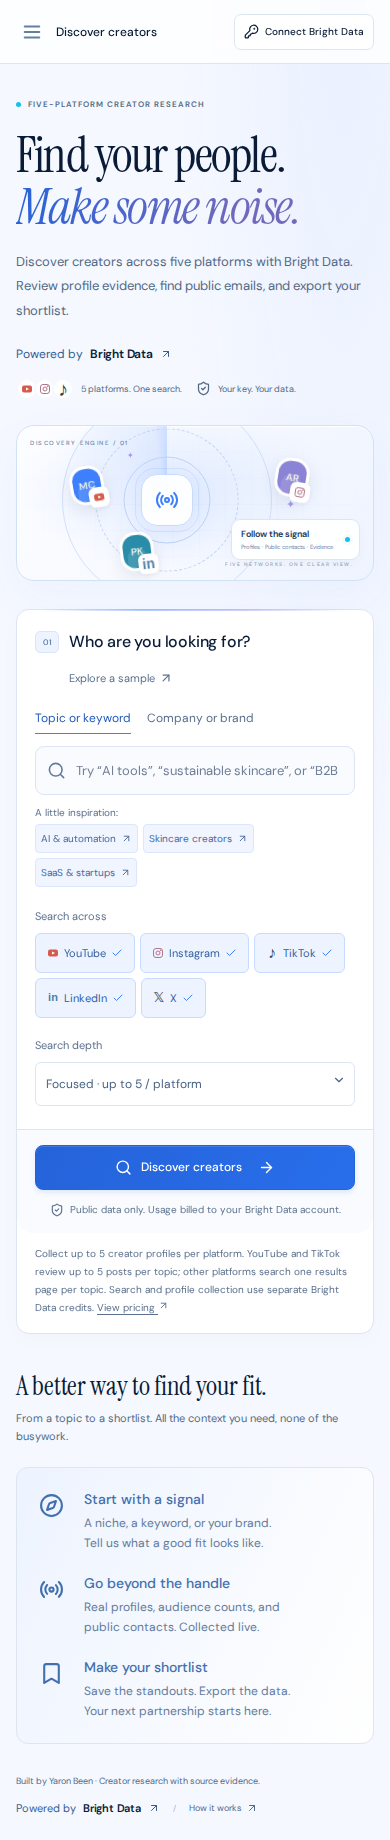
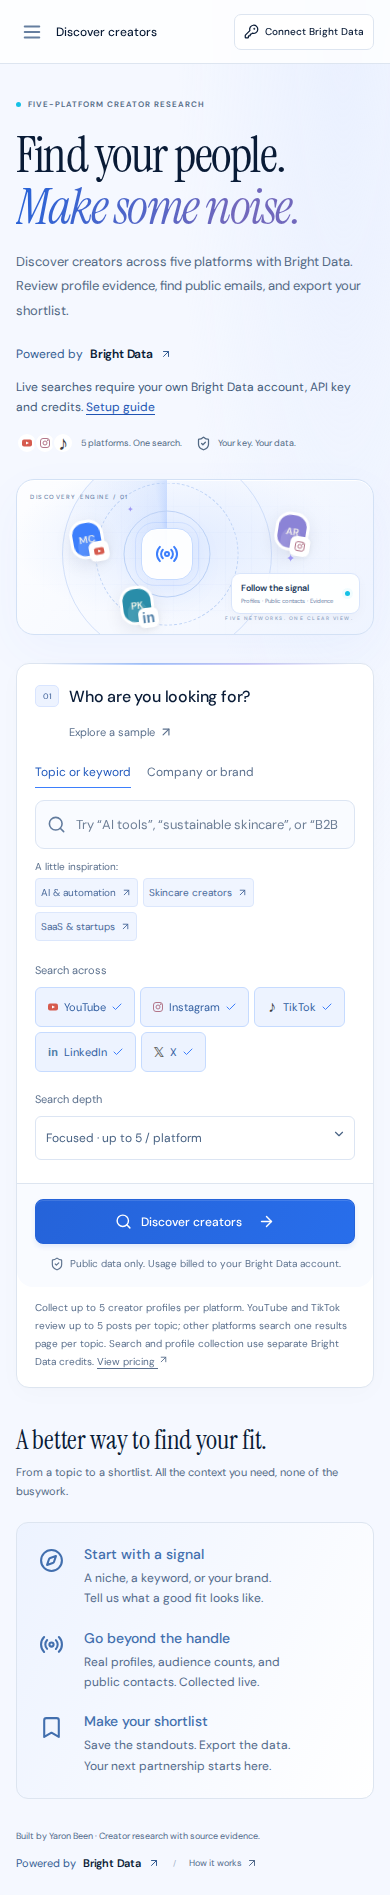
Clarify visitor key onboarding and agent-to-human setup handoff

diff --git a/src/App.tsx b/src/App.tsx
@@ -48,10 +48,23 @@ import {
   type SearchConfig,
 } from "./types";
 import { useSearch } from "./useSearch";
+import { localSetupPrompt } from "./setup";
 
 type View = "discover" | "shortlist" | "history";
 function ProviderCredit() {
   return <a className="provider-credit" href="https://brightdata.com" target="_blank" rel="noreferrer"><span>Powered by</span><strong className="brand-wordmark">Bright Data</strong><ArrowUpRight size={12} /></a>;
+}
+function ProviderSetup() {
+  return <section className="provider-setup" aria-label="Bright Data setup steps">
+    <h3>Your Bright Data checklist</h3>
+    <ol>
+      <li><strong>Create your account and check credits.</strong> Live searches are billed to your Bright Data account. <a href="https://brightdata.com" target="_blank" rel="noreferrer">Create an account</a> · <a href="https://brightdata.com/pricing" target="_blank" rel="noreferrer">Check pricing</a></li>
+      <li><strong>Enable Web Scraper API access for your key.</strong> Required to collect creator profiles on all five platforms and discover YouTube/TikTok content. <a href="https://docs.brightdata.com/scraping-automation/web-scraper-api/overview" target="_blank" rel="noreferrer">Web Scraper API guide</a></li>
+      <li><strong>Set up a SERP API search zone for Instagram, LinkedIn & X.</strong> A zone is a named search service in your Bright Data account. After connecting, choose it in the search form. “Active” does not guarantee it can complete a search. <a href="https://docs.brightdata.com/scraping-automation/serp-api/quickstart" target="_blank" rel="noreferrer">Set up search for Instagram, LinkedIn & X</a></li>
+      <li><strong>Optional: enable Web Unlocker.</strong> Only needed for the “Scan website” email check, which is separately billed. Profile email discovery works without it. <a href="https://docs.brightdata.com/scraping-automation/web-unlocker/quickstart" target="_blank" rel="noreferrer">Website scan setup</a></li>
+      <li><strong>Copy your API key and enter it here.</strong> Use your own key, only in the app’s key field. <a href="https://brightdata.com/cp/setting/users" target="_blank" rel="noreferrer">Find your API key</a></li>
+    </ol>
+  </section>;
 }
 function PlatformMark({ platform }: { platform: Platform }) {
   return (
@@ -333,7 +346,7 @@ export default function App() {
       setSearchZone(current => zones.includes(current) ? current : zones[0] || "");
       setKeyDraft("");
       setKeyModal(false);
-      setToast("Bright Data connected. You’re ready to discover.");
+      setToast(response.searchAvailable ? "Key connected. Choose your search zone before searching. Service access and credits are checked when collection runs." : "Key connected. Set up a search zone for Instagram, LinkedIn & X. YouTube/TikTok require Web Scraper API access and credits.");
     } catch (e) {
       setKeyError(e instanceof Error ? e.message : "Could not connect.");
     } finally {
@@ -653,6 +666,7 @@ export default function App() {
                     and export your shortlist.
                   </p>
                   <div className="provider-strip"><ProviderCredit /></div>
+                  <p className="hero-setup-note">Live searches require your own Bright Data account, API key and credits. <button type="button" onClick={() => setHelp(true)}>Setup guide</button></p>
                   <div className="hero-meta">
                     <span>
                       <span className="tiny-stack">
@@ -864,7 +878,7 @@ export default function App() {
                 </p>
                 {connected && !searchAvailable && (
                   <p className="form-error">
-                    YouTube and TikTok are ready. For Instagram, LinkedIn, and X, <a href="https://docs.brightdata.com/scraping-automation/serp-api/quickstart" target="_blank" rel="noreferrer">set up Bright Data’s search API</a>. Its name is detected automatically.
+                    No active search zone found. For Instagram, LinkedIn, and X, <a href="https://docs.brightdata.com/scraping-automation/serp-api/quickstart" target="_blank" rel="noreferrer">set up Bright Data’s search API</a>, then reconnect. YouTube and TikTok can run separately with Web Scraper API access and credits.
                   </p>
                 )}
                 {formError && (
@@ -1451,7 +1465,7 @@ export default function App() {
       {keyModal && (
         <Modal
           title={
-            connected ? "Your Bright Data connection" : "Plug into the signal."
+            connected ? "Your Bright Data connection" : "Connect your own Bright Data account"
           }
           onClose={() => {
             if (!connecting) {
@@ -1462,11 +1476,10 @@ export default function App() {
         >
           <div className="connect-art">
             <KeyRound size={28} />
-            <span>YOUR KEY. YOUR CREDITS. YOUR CONTROL.</span>
+            <span>YOUR KEY. YOUR ACCOUNT. YOUR USAGE.</span>
           </div>
           <p className="modal-intro">
-            Connect your Bright Data account to discover real creators. No
-            subscription to Signal Scout, and no extra AI key.
+            Each visitor uses their own Bright Data key and pays for their own searches. Signal Scout does not provide a shared key or free live collection. Sample mode needs no key.
           </p>
           <form onSubmit={connect}>
             <label className="field-label" htmlFor="api-key">
@@ -1490,8 +1503,7 @@ export default function App() {
             />
             <p className="key-help">
               <ShieldCheck size={14} />
-              Your key stays in memory for this tab. Never saved to browser
-              storage or our server.
+              Kept only in this tab’s memory. Sent over HTTPS through this website’s relay to Bright Data; not saved to browser storage or the server. Refreshing or closing the tab clears it.
             </p>
             {keyError && (
               <p className="form-error" role="alert">
@@ -1519,19 +1531,16 @@ export default function App() {
           >
             Find your API key in Bright Data <ExternalLink size={13} />
           </a>
+          <details className="setup-disclosure">
+            <summary>New to Bright Data? Open the step-by-step setup checklist</summary>
+            <ProviderSetup />
+          </details>
           <div className="connection-info">
-            <strong>What you’ll need</strong>
-            <p>
-              An API key with Web Scraper API access and available credits.
-              An active SERP API enables Instagram, LinkedIn, and X discovery;
-              its name is detected automatically. An active Web Unlocker zone
-              enables optional website email scans.
-            </p>
+            <strong>After you connect</strong>
+            <p>Choose your search zone in the form, enter 1–3 short topics, choose platforms and depth, then click Discover creators. Search and profile collection are separate paid stages; depth limits records, not a currency budget.</p>
             <small>
-              Searches take a few minutes. No credits are spent checking your
-              connection.
+              Connecting checks account metadata without a paid search. It does not verify every product permission, your balance, or that the selected zone works. Collections can take several minutes; resume pending jobs rather than starting them again.
             </small>
-            <div className="setup-links"><a href="https://brightdata.com" target="_blank" rel="noreferrer">Create an account <ExternalLink size={12} /></a><a href="https://docs.brightdata.com/scraping-automation/serp-api/quickstart" target="_blank" rel="noreferrer">Set up search for Instagram, LinkedIn & X <ExternalLink size={12} /></a><a href="https://brightdata.com/pricing" target="_blank" rel="noreferrer">Bright Data pricing <ExternalLink size={12} /></a></div>
           </div>
           <p className="operator-note">Signal Scout is an open-source app built by Yaron Been. Bright Data provides the search and collection APIs. Your key passes through this app’s relay to Bright Data and is not saved.</p>
           {connected && (
@@ -1541,7 +1550,9 @@ export default function App() {
               onClick={() => {
                 setKey("");
                 setConnected(false);
-                setUnlockerZone("");
+                 setUnlockerZone("");
+                 setSearchZones([]);
+                 setSearchZone("");
                 setKeyModal(false);
                 setToast("Bright Data disconnected");
               }}
@@ -1561,7 +1572,7 @@ export default function App() {
               [
                 "01",
                 "Connect your Bright Data key",
-                "Get your key from Bright Data account settings. It stays in memory for this tab. Your account pays for the data collected.",
+                "Use the checklist below to enable the required services. Enter your own key in the app. On this website it passes through the relay to Bright Data; your account pays for collection. Choose your search zone after connecting.",
               ],
               [
                 "02",
@@ -1597,25 +1608,35 @@ export default function App() {
               keyword matches.
             </p>
           </div>
+          <ProviderSetup />
+          <div className="connection-info">
+            <strong>Using the live website</strong>
+            <p>No installation is needed. Connect your own key, choose your search zone, and search. No owner key is provided. After a refresh, reconnect your key and use Resume search to check existing collections. Do not repeat an unresolved paid search until you check your Bright Data usage.</p>
+          </div>
           <div className="local-instructions">
             <Terminal size={19} />
             <strong>Prefer to run it locally?</strong>
-            <p>Paste this into Claude Code, OpenCode, or Cursor:</p>
-            <code>
-              Clone https://github.com/yaronbeen/signal-scout, read AGENTS.md,
-              install dependencies, run checks, start the app locally, and
-              verify /api/health. I’ll enter my Bright Data key in the app.
-            </code>
+            <h3>For your coding agent</h3>
+            <p>Open Claude Code, OpenCode, or Cursor and paste this. The agent starts the app and explains your remaining steps.</p>
+            <code>{localSetupPrompt}</code>
             <button
               className="secondary-button"
               onClick={() =>
                 copy(
-                  "Clone https://github.com/yaronbeen/signal-scout, read AGENTS.md, install dependencies, run checks, start the app locally, and verify /api/health. I’ll enter my Bright Data key in the app.",
+                  localSetupPrompt,
                 )
               }
             >
               <Copy size={14} /> Copy setup prompt
             </button>
+            <h3>For you: once the agent finishes</h3>
+            <ol>
+              <li>Complete the Bright Data checklist above. The agent cannot supply your account, credits, or API key.</li>
+              <li>Open <a href="http://localhost:8787" target="_blank" rel="noreferrer">http://localhost:8787</a>, click Connect Bright Data, and enter your key there.</li>
+              <li>Select a working search zone for Instagram, LinkedIn & X, choose topics/platforms, and start your search.</li>
+              <li>Keep the local server running. If you refresh, reconnect your key and resume saved jobs.</li>
+            </ol>
+            <p>Local prerequisites: Git and Node.js 22+. No Cloudflare login is required locally. You can explore a fictional sample without a key.</p>
           </div>
         </Modal>
       )}

diff --git a/test/e2e/brand.spec.ts b/test/e2e/brand.spec.ts
@@ -1,4 +1,47 @@
 import {test, expect} from '@playwright/test';
+import {localSetupPrompt} from '../../src/setup';
+
+test('setup guide gives agent and human steps; visitor key clears on refresh and disconnect', async ({page, context}) => {
+  let connects = 0;
+  await context.grantPermissions(['clipboard-read','clipboard-write']);
+  await page.route('**/api/**', async route => {
+    expect(route.request().url()).toContain('/connect');
+    expect(route.request().headers().authorization).toBe('Bearer fixture-visitor-key-only');
+    connects++;
+    return route.fulfill({json:{connected:true,searchAvailable:true,searchZones:['visitor-search'],unlockerZone:''}});
+  });
+  await page.goto('/');
+  await page.getByRole('button',{name:'Setup guide',exact:true}).click();
+  const dialog = page.getByRole('dialog');
+  await expect(dialog.getByRole('heading',{name:'Your Bright Data checklist'})).toBeVisible();
+  await expect(dialog.getByRole('heading',{name:'For your coding agent'})).toBeVisible();
+  await expect(dialog.getByRole('heading',{name:'For you: once the agent finishes'})).toBeVisible();
+  await dialog.getByRole('button',{name:'Copy setup prompt'}).click();
+  expect(await page.evaluate(()=>navigator.clipboard.readText())).toBe(localSetupPrompt);
+  await expect(dialog.getByRole('link',{name:'http://localhost:8787',exact:true})).toBeVisible();
+  expect(await dialog.evaluate(el=>el.scrollWidth <= el.clientWidth)).toBeTruthy();
+  await page.getByRole('button',{name:'Close dialog'}).click();
+  await page.getByRole('button',{name:'Connect Bright Data',exact:true}).click();
+  await expect(page.getByRole('dialog').getByText(/It does not verify every product permission/)).toBeVisible();
+  await page.getByLabel('Bright Data API key').fill('fixture-visitor-key-only');
+  await page.getByRole('dialog').getByRole('button',{name:'Connect Bright Data'}).click();
+  await expect(page.getByRole('button',{name:'Bright Data connected'})).toBeVisible();
+  const storage = await page.evaluate(()=>JSON.stringify({local:{...localStorage},session:{...sessionStorage}}));
+  expect(storage).not.toContain('fixture-visitor-key-only');
+  expect(connects).toBe(1);
+  await page.reload();
+  await expect(page.getByRole('button',{name:'Connect Bright Data',exact:true})).toBeVisible();
+  expect(connects).toBe(1);
+  await page.getByRole('button',{name:'Connect Bright Data',exact:true}).click();
+  await expect(page.getByLabel('Bright Data API key')).toHaveValue('');
+  await page.getByLabel('Bright Data API key').fill('fixture-visitor-key-only');
+  await page.getByRole('dialog').getByRole('button',{name:'Connect Bright Data'}).click();
+  await page.getByRole('button',{name:'Bright Data connected'}).click();
+  await page.getByRole('button',{name:'Disconnect and forget key'}).click();
+  await expect(page.getByRole('button',{name:'Connect Bright Data',exact:true})).toBeVisible();
+  await expect(page.getByLabel('Bright Data search zone · Instagram, LinkedIn & X')).toHaveCount(0);
+  expect(connects).toBe(2);
+});
 
 test('visitor can select an account search zone without submitting or replaying paid requests', async ({page}) => {
   let searches = 0;
@@ -36,8 +79,9 @@ test('brand attribution, animation and setup guidance remain usable across width
   await page.emulateMedia({reducedMotion:'reduce'});
   expect(await page.locator('.radar-sweep').evaluate(el => getComputedStyle(el).animationName)).toBe('none');
   await page.getByRole('button',{name:'Connect Bright Data',exact:true}).click();
+  await page.getByText('New to Bright Data? Open the step-by-step setup checklist',{exact:true}).click();
   await expect(page.getByRole('dialog').getByRole('link',{name:/Set up search/})).toBeVisible();
-  await expect(page.getByRole('dialog').getByRole('link',{name:'Bright Data pricing'})).toBeVisible();
+  await expect(page.getByRole('dialog').getByRole('link',{name:'Check pricing'})).toBeVisible();
 });
 
 for (const outcome of ['lost response', 'origin 403', 'origin 429']) test(`${outcome} never auto-repeats paid SERP discovery after reload`, async ({page}) => {

diff --git a/src/brightdata.css b/src/brightdata.css
@@ -182,6 +182,19 @@ button:focus-visible, a:focus-visible, input:focus-visible, select:focus-visible
 .search-zone-option label { color: #304869; font-size: 11px; font-weight: 500; }
 .search-zone-option select { width: 100%; min-height: 40px; border: 1px solid #d3e1f5; border-radius: 8px; padding: 8px 12px; background: #fff; color: #091b36; font: inherit; font-size: 12px; }
 .search-zone-option small { color: #526a8b; font-size: 11px; line-height: 1.6; }
+.provider-setup { margin: 20px 0; padding: 18px; background: #f3f7ff; border: 1px solid #d3e1f5; border-radius: 12px; }
+.provider-setup h3, .local-instructions h3 { font-size: 14px; color: #091b36; margin: 0 0 12px; }
+.provider-setup ol, .local-instructions ol { margin: 0; padding-left: 20px; color: #435b7b; font-size: 13px; line-height: 1.7; }
+.provider-setup li + li, .local-instructions li + li { margin-top: 10px; }
+.provider-setup strong { color: #22395b; }
+.provider-setup a, .local-instructions a { color: #2054b3; text-decoration: underline; text-underline-offset: 3px; }
+.local-instructions h3 { margin-top: 20px; }
+.hero-copy > .hero-setup-note { font-size: 12px; line-height: 1.7; margin-top: 14px; color: #435b7b; }
+.hero-setup-note button { padding: 0; border: 0; background: none; font: inherit; color: #2054b3; text-decoration: underline; text-underline-offset: 3px; cursor: pointer; }
+.setup-disclosure { margin: 20px 0; border: 1px solid #d3e1f5; border-radius: 10px; padding: 14px; background: #f3f7ff; }
+.setup-disclosure summary { font-size: 13px; font-weight: 500; line-height: 1.7; color: #2054b3; cursor: pointer; }
+.setup-disclosure .provider-setup { border: 0; margin: 14px 0 0; padding: 0; }
+.connection-info p, .connection-info small, .key-help, .operator-note { font-size: 12px; line-height: 1.7; }
 .main-shell { background: radial-gradient(ellipse at 88% 0%, #dfe9ff80, transparent 34%), #f5f8ff; }
 .hero h1 { color: #091b36; }
 .how-grid p, .results-footnote, .progress-item small, .progress-item p,

diff --git a/src/setup.ts b/src/setup.ts
@@ -1,0 +1,1 @@
+export const localSetupPrompt = "Clone https://github.com/yaronbeen/signal-scout and read AGENTS.md. Check Git and Node.js 22+; explain or install missing prerequisites with my permission. Run npm ci and npm run check, start npm run dev as a persistent process, verify http://localhost:8787/api/health has ok: true, and open http://localhost:8787. Then give me the human setup steps: create a Bright Data account with available credits and Web Scraper API access, enable a SERP API zone for Instagram/LinkedIn/X, optionally enable Web Unlocker for website email scans, enter my key only in the app, and select a working search zone. Explain that connecting checks account metadata, not whether every paid service works. Keep the server running; after refresh I reconnect my key and resume existing jobs. Do not request my key in chat, store it, configure a hosted key, or submit paid test searches without asking me. No Cloudflare login is needed locally.";

diff --git a/README.md b/README.md
@@ -35,10 +35,21 @@ If one product is unavailable, other platforms can still complete. Missing email
 Paste this into **Claude Code, OpenCode, or Cursor**:
 
 ```text
-Clone https://github.com/yaronbeen/signal-scout, read AGENTS.md, install dependencies, run checks, start the app locally, and verify /api/health. I’ll enter my Bright Data key in the app.
+Clone https://github.com/yaronbeen/signal-scout and read AGENTS.md. Check Git and Node.js 22+; explain or install missing prerequisites with my permission. Run npm ci and npm run check, start npm run dev as a persistent process, verify http://localhost:8787/api/health has ok: true, and open http://localhost:8787. Then give me the human setup steps: create a Bright Data account with available credits and Web Scraper API access, enable a SERP API zone for Instagram/LinkedIn/X, optionally enable Web Unlocker for website email scans, enter my key only in the app, and select a working search zone. Explain that connecting checks account metadata, not whether every paid service works. Keep the server running; after refresh I reconnect my key and resume existing jobs. Do not request my key in chat, store it, configure a hosted key, or submit paid test searches without asking me. No Cloudflare login is needed locally.
 ```
 
 The agent handles setup; you enter your API key in the browser. Never paste the key into the agent prompt.
+
+### Your steps after the agent finishes
+
+1. Complete the [Bright Data account checklist](#what-your-bright-data-account-needs): credits, Web Scraper API access, and a working SERP API zone. Web Unlocker is optional.
+2. Open http://localhost:8787 and click **Connect Bright Data**. Enter your key only in the app.
+3. Choose your search zone for Instagram, LinkedIn, and X, then choose topics/platforms and depth. Connecting checks account metadata, not product permissions, balance, or search-zone health.
+4. Keep the local server running. After a refresh, reconnect your key and resume existing jobs.
+
+### Visiting the live website
+
+No installation is required. Every visitor supplies their own key and pays for their own Bright Data usage. The tab keeps the key in memory and sends it over HTTPS through the website’s stateless relay to Bright Data. The application does not save it or provide a shared owner key. Refreshing or closing the tab clears the key; reconnect to resume saved jobs. Sample mode needs no key.
 
 ### Manual local setup
 

diff --git a/docs/VERIFICATION.md b/docs/VERIFICATION.md
@@ -3,7 +3,7 @@
 ## Automated checks
 
 - `npm run check`: **31 unit/integration checks passed**, TypeScript passed, production build passed.
-- `npm run test:e2e`: **28 browser tests passed**, covering desktop (1440px), mobile (390px), account search-zone selection, breakpoint widths 360/700/900/1440, and reduced motion.
+- `npm run test:e2e`: **30 browser tests passed**, covering desktop (1440px), mobile (390px), explicit agent/human setup guidance, visitor-key clearing, account search-zone selection, breakpoint widths 360/700/900/1440, and reduced motion.
 - Separate read-only reviewer audited orchestration, provenance, recovery, and sample isolation. Reported blockers were fixed and regression-tested; final targeted verdict: **SHIP**.
 - A subsequent four-perspective review covered branding, nontechnical onboarding, copywriting, and engineering; changes are documented in [REVIEW.md](REVIEW.md).
 
@@ -20,6 +20,16 @@ Live discovery and profile enrichment completed for every platform using the dev
 - **X:** 5 discovered profiles; 5 returned; 0 collection-error records; no public email; audience counts on 5; websites on 4.
 
 These are small contract-validation searches, not email-coverage benchmarks or a guarantee that every returned profile is a suitable influencer. Search results can include brand accounts or weak matches; source evidence enables human qualification.
+
+### Follow-up hosted search-zone verification
+
+After diagnosing a first-active-zone timeout, the hosted app was verified with an explicitly selected working account zone using the topic `ai ugc`. Each platform used one bounded discovery request and one enrichment snapshot, without automatic retries:
+
+- **Instagram:** 1 discovered and successfully enriched profile; no public email.
+- **LinkedIn:** 5 discovered and successfully enriched profiles; no public email.
+- **X:** 5 discovered and successfully enriched profiles; 1 with public email.
+
+All three completed through the deployed relay. This confirms the discovery/enrichment path with that working zone, not universal availability of every visitor's zone. The user's pre-existing YouTube/TikTok snapshots were not available for this check and were not resubmitted.
 
 Optional Web Unlocker website scanning also returned HTTP 200 through the shipping Worker against a real creator-linked website. No public email was found on that page; no email was fabricated.
 

diff --git a/AGENTS.md b/AGENTS.md
@@ -5,12 +5,16 @@ Premium, reliable influencer discovery for nontechnical marketers. Five platform
 
 ## First-time setup
 1. Require Node.js >=22. If unavailable, explain the prerequisite and install using the user's platform-appropriate version manager when permitted.
+   Check Git is available for cloning; explain/install missing prerequisites with permission. No Cloudflare login is required locally.
 2. Run `npm ci`.
 3. Run `npm run check`.
 4. Start `npm run dev` as a persistent/background process.
 5. Verify `http://localhost:8787/api/health` returns `{ "ok": true }`.
 6. Open or provide `http://localhost:8787`.
 7. Tell the user to enter their Bright Data key in the app. Do not request it in chat or configure it as a hosted secret.
+8. Give the human an explicit handoff checklist: Bright Data account with available credits and Web Scraper API access; an active, working SERP API zone for Instagram/LinkedIn/X; optional Web Unlocker only for website scans; enter their key in the app, select their search zone, choose topics/platforms, and search. Link to the setup guides in README.md. Do not claim a connected key proves all service permissions or zone health.
+9. Explain that the local server must stay running and a refresh clears the in-memory key; reconnect then resume existing snapshot jobs. Sample mode needs no key. On the public website, visitors supply their own key, passed over HTTPS through the stateless relay to Bright Data; there is no shared owner key.
+10. Do not submit paid setup tests, scan websites, or probe/fail over to other zones without explicit user authorization. Account metadata checks are non-billable; real discovery/enrichment are paid stages.
 
 ## Commands
 - `npm run check`: unit/integration checks and build.

diff --git a/docs/DEPLOYMENT.md b/docs/DEPLOYMENT.md
@@ -13,7 +13,8 @@ The local server and hosted deployment use the same Worker and built assets. No 
 ## Troubleshooting
 - **401:** reconnect with a current Bright Data key.
 - **403:** check key product permissions.
-- **409 on search discovery:** enable an active SERP API for Instagram/LinkedIn/X. Its name is auto-detected.
+- **409 on search discovery:** enable an active SERP API for Instagram/LinkedIn/X, reconnect, and select its name in the search form.
+- **Search zone timeout/origin error:** active status does not prove search-engine access. Check the named zone’s configuration and usage; select another working account zone if available. Paid search retries require explicit authorization; no automatic failover.
 - **No website scan available:** enable a Web Unlocker zone; optional profile email extraction still works.
 - **429:** wait at least a minute. Do not repeatedly retry.
 - **Slow profile scraper:** pause/resume the existing snapshot; the Bright Data dashboard shows its status.
